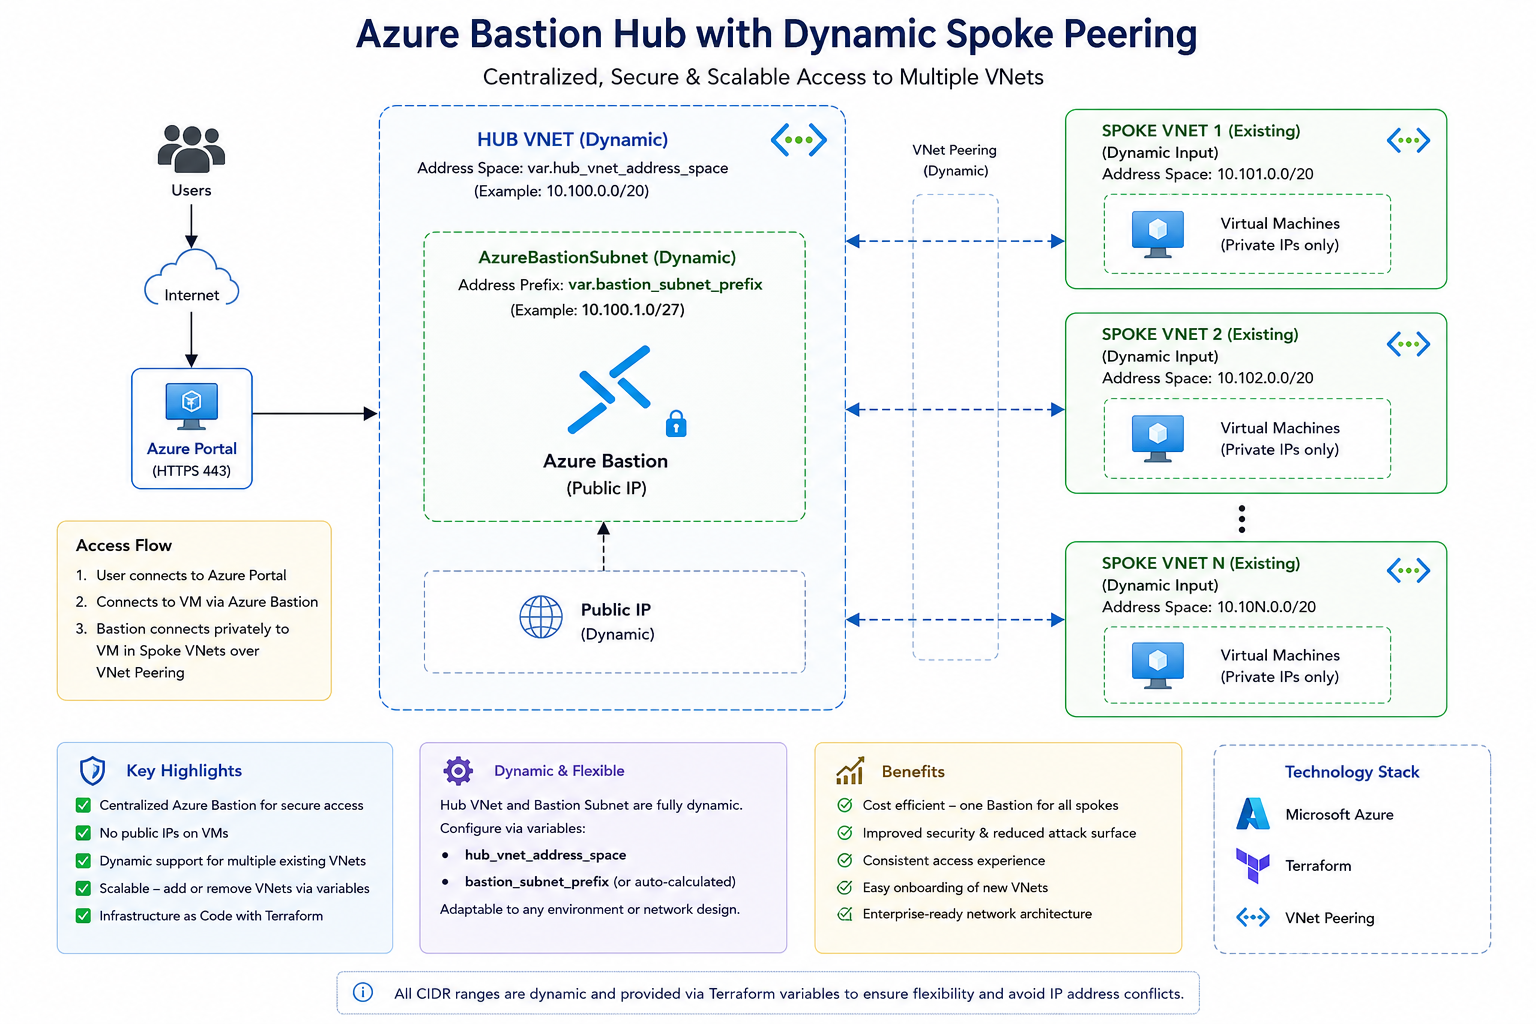
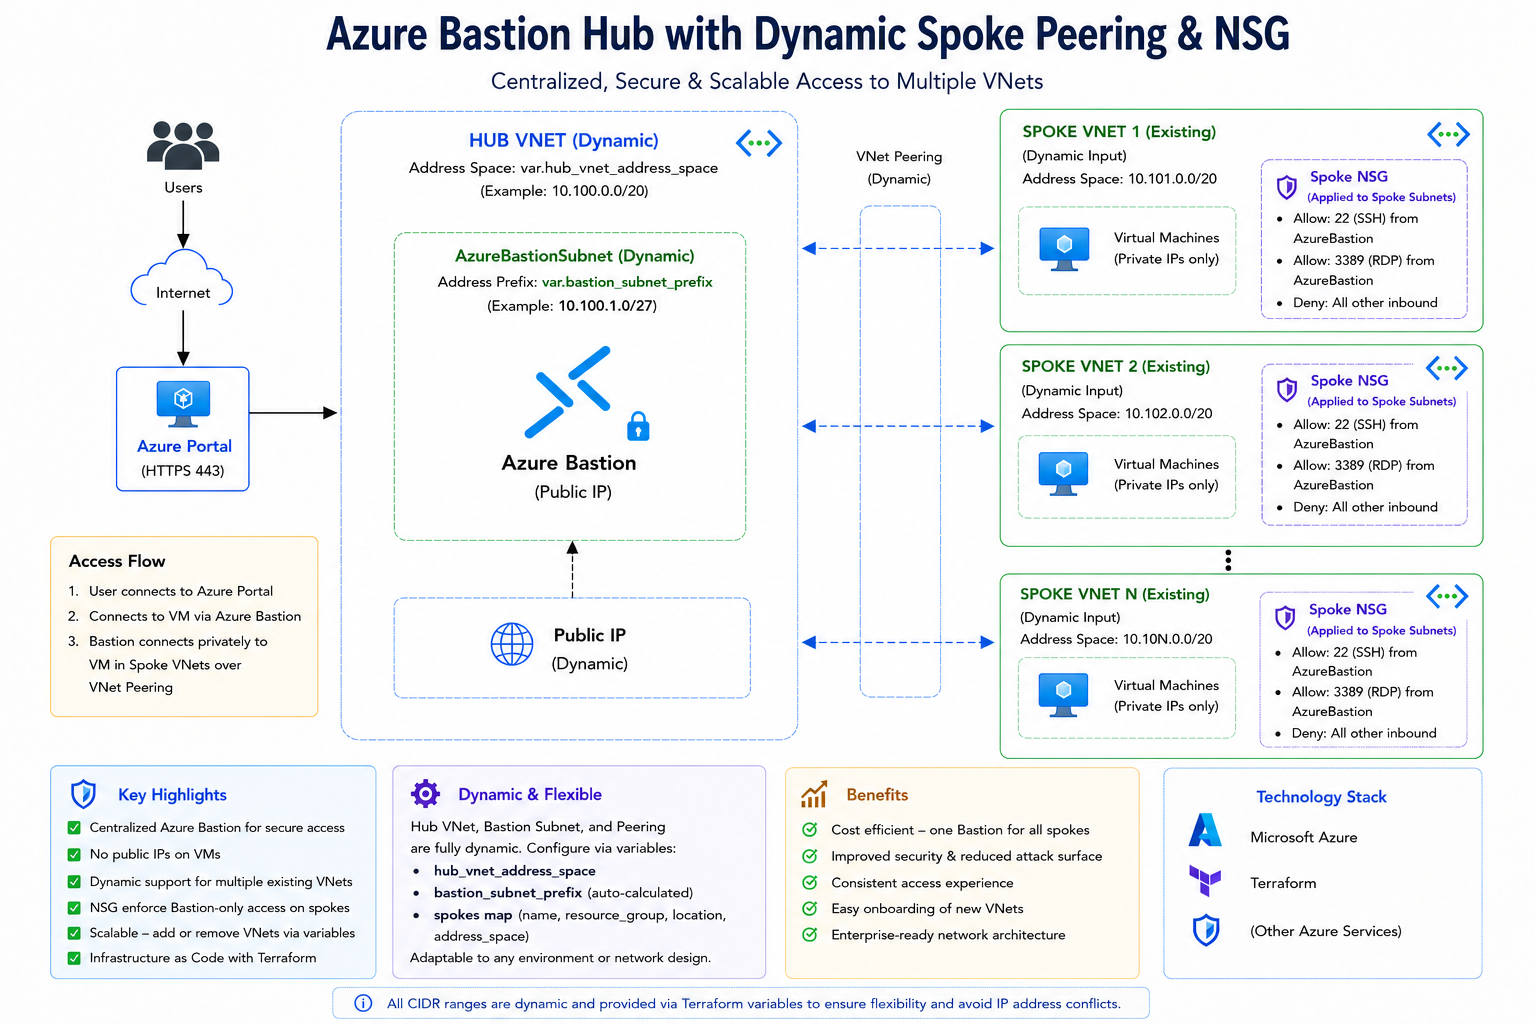
Add NSG to the spoke VNets and updated the architecture to improve traffic control and overall security

diff --git a/iac-azure-bastion-hub-spoke/README.md b/iac-azure-bastion-hub-spoke/README.md
@@ -2,69 +2,76 @@
 
 ## Overview
 
-This project implements a centralized access architecture in Microsoft Azure using Terraform. It deploys a Hub virtual network with Azure Bastion and dynamically peers it with multiple existing VNets (spokes).
+This project implements a centralized access architecture in Microsoft Azure using Terraform.
 
-The goal is to provide secure, private access to virtual machines across environments without exposing public IP addresses, while optimizing cost by avoiding multiple Bastion deployments.
+It deploys a Hub virtual network with Azure Bastion and dynamically peers it with multiple existing VNets (spokes).
+
+The solution enables secure, private access to virtual machines across environments without exposing public IP addresses, while optimizing cost through a single, centralized Bastion deployment.
 
 ---
 
 ## Architecture
 
-This solution follows a Hub-and-Spoke network design:
+### Hub VNet
+- Hosts Azure Bastion  
+- Acts as the centralized access point  
 
-* **Hub VNet**
+### Spoke VNets (Existing)
+- Application or environment VNets  
+- Referenced dynamically via Terraform variables  
 
-  * Hosts Azure Bastion
-  * Acts as the centralized access point
+### VNet Peering
+- Connects Hub to multiple spokes  
+- Enables low-latency private connectivity  
 
-* **Spoke VNets (Existing)**
+### Network Security Groups (NSG)
+- Applied to spoke subnets  
+- Allows only Bastion-originated RDP/SSH access  
 
-  * Application or environment VNets
-  * Discovered dynamically via Terraform input
+---
 
-* **VNet Peering**
+## Key Flow
 
-  * Connects Hub to multiple spokes
-  * Enables private connectivity
+### Connection Flow
 
-### Key Flow
+1. User connects to Azure Portal  
+2. Accesses VM via Azure Bastion  
 
-1. User connects to Azure Portal
-2. Accesses VM via Azure Bastion
-3. Traffic flows:
+### Traffic Path
 
-   * User → Bastion (public endpoint)
-   * Bastion → Hub VNet
-   * Hub → Spoke VNet (via peering)
-   * Spoke → VM (private IP)
+- User → Bastion (public endpoint)  
+- Bastion → Hub VNet  
+- Hub → Spoke VNet (via peering)  
+- Spoke → VM (private IP)  
 
 ---
 
 ## Features
 
-* Centralized Azure Bastion deployment
-* Dynamic peering to multiple existing VNets
-* No public IP required for virtual machines
-* Scalable design using `for_each`
-* Infrastructure-as-Code using Terraform
-* Optional Bastion deployment for cost optimization
+- Centralized Azure Bastion deployment  
+- Dynamic peering using `for_each`  
+- No public IPs on virtual machines  
+- NSG enforcing Bastion-only access  
+- Environment-based structure (`env/dev`, `env/prod`)  
+- Remote state via `backend.hcl`  
+- Modular Terraform design  
 
 ---
 
 ## Use Cases
 
-* Secure remote access without exposing VMs to the internet
-* Organizations with multiple VNets across teams or environments
-* Centralized access control for Dev, QA, and Production
-* Cost optimization by reducing duplicate Bastion deployments
-* Integration with existing Azure infrastructure
+- Secure remote access without exposing VMs  
+- Multi-VNet enterprise environments  
+- Centralized access for Dev / QA / Prod  
+- Cost optimization using single Bastion  
+- Integration with existing Azure VNets  
 
 ---
 
 ## Project Structure
 
 ```
-azure-bastion-hub-spoke/
+iac-azure-bastion-hub-spoke/
 │
 ├── main.tf
 ├── variables.tf
@@ -76,32 +83,58 @@ azure-bastion-hub-spoke/
 │       ├── main.tf
 │       ├── variables.tf
 │       └── outputs.tf
+│
+├── env/
+│   ├── dev/
+│   │   ├── backend.hcl
+│   │   └── terraform.tfvars
+│   ├── prod/
+│   │   ├── backend.hcl
+│   │   └── terraform.tfvars
 ```
 
 ---
 
 ## Inputs
 
-### Example: terraform.tfvars
+### Example: `terraform.tfvars`
 
-```
-application_name = "demo"
-primary_location = "East US"
+```hcl
+location            = "East Asia"
+resource_group_name = "rg-network-dev"
 
-spokes = [
-  {
-    name                = "vnet-app1"
-    resource_group_name = "rg-app1"
+bastion_subnet_cidr = "10.0.0.0/26"
+
+spokes = {
+  spoke1 = {
+    name                = "spoke1-vnet"
+    resource_group_name = "rg-spoke1-dev"
+    location            = "East Asia"
   },
-  {
-    name                = "vnet-app2"
-    resource_group_name = "rg-app2"
+  spoke2 = {
+    name                = "spoke2-vnet"
+    resource_group_name = "rg-spoke2-dev"
+    location            = "East Asia"
   }
-]
+}
 ```
+
 ---
 
-## Architecture
+## Backend Configuration
+
+### Example: `backend.hcl`
+
+```hcl
+resource_group_name  = "rg-tfstate"
+storage_account_name = "tfstatehubspoke123"
+container_name       = "tfstate"
+key                  = "bastion-hub-spoke-dev.tfstate"
+```
+
+---
+
+## Architecture Diagram
 
 ![Azure Bastion Hub Architecture](./images/architecture.png)
 
@@ -113,22 +146,37 @@ spokes = [
 
 Terraform provisions:
 
-* Resource Group
-* Hub VNet
-* AzureBastionSubnet
-* Public IP
-* Azure Bastion
+- Resource Group  
+- Hub VNet  
+- AzureBastionSubnet  
+- Public IP  
+- Azure Bastion  
 
-### 2. Discover Existing VNets
+---
 
-Uses Terraform data sources to reference VNets that were not created in this project.
+### 2. Reference Existing VNets
+
+Terraform uses variables to reference existing VNets instead of creating them.
+
+---
 
 ### 3. Create Dynamic Peering
 
-For each VNet defined in the input:
+For each spoke:
 
-* Hub → Spoke peering
-* Spoke → Hub peering
+- Hub → Spoke peering  
+- Spoke → Hub peering  
+
+---
+
+### 4. Apply Network Security Groups
+
+- NSG attached to spoke subnets  
+- Allows only:
+  - Port 22 (SSH)  
+  - Port 3389 (RDP)  
+  - Source: `AzureBastion`  
+- Denies all other inbound traffic  
 
 ---
 
@@ -136,71 +184,73 @@ For each VNet defined in the input:
 
 ### Initialize
 
-```
-terraform init
+```bash
+terraform init -backend-config=env/dev/backend.hcl
 ```
 
 ### Plan
 
-```
-terraform plan
+```bash
+terraform plan -var-file=env/dev/terraform.tfvars
 ```
 
 ### Apply
 
-```
-terraform apply
+```bash
+terraform apply -var-file=env/dev/terraform.tfvars
 ```
 
-### Destroy (optional)
+### Destroy
 
-```
-terraform destroy
+```bash
+terraform destroy -var-file=env/dev/terraform.tfvars
 ```
 
 ---
 
 ## Security Considerations
 
-* No public IPs required on virtual machines
-* Access is centralized through Azure Bastion
-* Reduces attack surface
-* Aligns with Zero Trust principles
+- No public IPs on VMs  
+- Bastion is the only access entry point  
+- NSG enforces least-privilege  
+- Reduced attack surface  
+- Zero Trust aligned  
 
 ---
 
 ## Cost Considerations
 
-Azure Bastion is billed hourly regardless of usage.
+Azure Bastion is billed hourly.
 
-This project supports:
+### Optimization Strategy
 
-* Centralized Bastion (reduce duplication)
-* Optional deployment pattern (enable/disable when needed)
+- Single centralized Bastion  
+- Shared across multiple VNets  
 
-Recommended:
+### Recommended Usage
 
-* Always-on for production
-* On-demand for dev/test environments
+- Production → Always on  
+- Dev/Test → Deploy on demand  
 
 ---
 
 ## Future Improvements
 
-* Network Security Groups (NSGs)
-* Azure Firewall integration
-* Private DNS zones
-* Logging and monitoring (Azure Monitor)
-* CI/CD pipeline for automated deployments
+- Azure Firewall  
+- Private DNS zones  
+- Azure Monitor integration  
+- CI/CD pipeline  
+- RBAC enhancements  
 
 ---
 
 ## Summary
 
-This project demonstrates a scalable and secure approach to managing remote access in Azure by combining:
+This project demonstrates:
 
-* Hub-and-Spoke architecture
-* Centralized Bastion access
-* Dynamic infrastructure integration
+- Hub-and-Spoke architecture  
+- Centralized Bastion access  
+- NSG-based security control  
+- Environment-based Terraform deployments  
 
-It is designed to reflect real-world enterprise scenarios where infrastructure already exists and needs to be securely integrated.
+It reflects real-world enterprise scenarios where existing infrastructure must be securely integrated.
